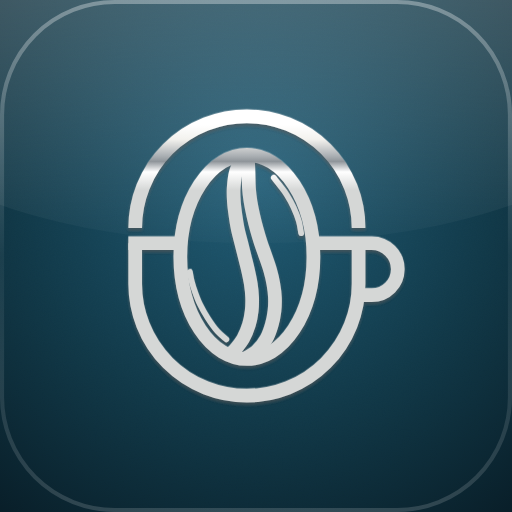
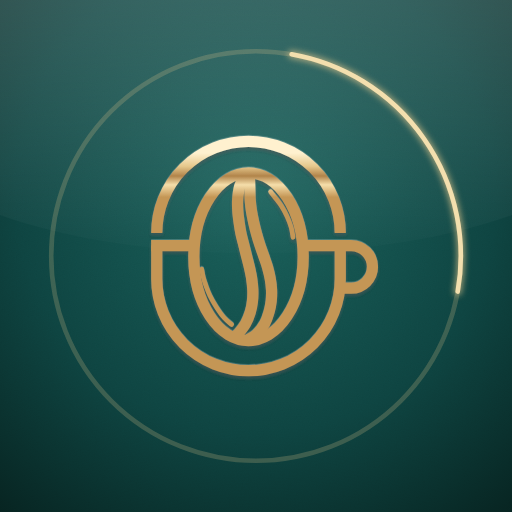
Add files via upload

diff --git a/index.html b/index.html
@@ -70,6 +70,21 @@ button:disabled{opacity:.55;cursor:default}
 <script src="https://www.gstatic.com/firebasejs/10.12.5/firebase-app-compat.js"></script>
 <script src="https://www.gstatic.com/firebasejs/10.12.5/firebase-database-compat.js"></script>
 <script src="https://www.gstatic.com/firebasejs/10.12.5/firebase-auth-compat.js"></script>
+<style id="splash-css">
+#splash{position:fixed;inset:0;z-index:9999;display:flex;flex-direction:column;align-items:center;justify-content:center;background:radial-gradient(120% 90% at 50% 40%,#1a5a55 0%,#0f4744 55%,#07231f 100%);transition:opacity .6s ease,visibility .6s ease}
+#splash.gone{opacity:0;visibility:hidden}
+#splash .sp-mark{position:relative;width:min(56vw,230px);aspect-ratio:1;display:grid;place-items:center;animation:spIn .9s cubic-bezier(.2,.8,.2,1) both}
+#splash .sp-icon{width:64%;height:auto;filter:drop-shadow(0 3px 3px rgba(0,0,0,.45));position:relative}
+#splash .sp-ring,#splash .sp-ring2{position:absolute;inset:0;border-radius:50%}
+#splash .sp-ring{border:2px solid rgba(230,200,140,.16)}
+#splash .sp-ring2{border:2px solid transparent;border-right-color:#e6c88c;border-top-color:rgba(230,200,140,.35);animation:spSpin 1.1s linear infinite;filter:drop-shadow(0 0 4px rgba(230,200,140,.45))}
+#splash .sp-name{width:min(52vw,220px);height:auto;margin-top:38px;animation:spUp .9s .25s cubic-bezier(.2,.8,.2,1) both}
+#splash .sp-sub{width:min(40vw,170px);height:auto;margin-top:12px;animation:spUp .9s .4s cubic-bezier(.2,.8,.2,1) both}
+@keyframes spIn{from{opacity:0;transform:scale(.9);filter:blur(4px)}to{opacity:1;transform:none;filter:none}}
+@keyframes spUp{from{opacity:0;transform:translateY(10px)}to{opacity:1;transform:none}}
+@keyframes spSpin{to{transform:rotate(360deg)}}
+@media (prefers-reduced-motion:reduce){#splash *{animation:none!important}}
+</style>
 <style id="app-css">
 .bnav,.more-sheet,.install-tip{display:none}
 @media(max-width:760px){
@@ -118,6 +133,23 @@ button:disabled{opacity:.55;cursor:default}
 @media (display-mode:standalone){.install-app{display:none!important}}
 </style><style>.size-grid{display:grid;grid-template-columns:repeat(3,1fr);gap:10px}.size-grid input{width:100%;margin-top:6px}@media(max-width:700px){.size-grid{grid-template-columns:1fr}}</style><style>textarea{width:100%;min-height:70px;resize:vertical}#prating,#previewcount{width:48%;display:inline-block;margin-right:1%}</style></head>
 <body>
+<div id="splash" role="status" aria-label="Loading"><div class="sp-mark"><div class="sp-ring"></div><div class="sp-ring2"></div><svg class="sp-icon" viewBox="-37 30 1290 1320" xmlns="http://www.w3.org/2000/svg"><defs><linearGradient id="spg" gradientUnits="userSpaceOnUse" x1="0" y1="60" x2="0" y2="1320"><stop offset="0" stop-color="#fff1cf"/><stop offset=".3" stop-color="#e6c88c"/><stop offset=".52" stop-color="#b1844a"/><stop offset=".72" stop-color="#f5deaa"/><stop offset="1" stop-color="#c49655"/></linearGradient></defs><path fill="none" stroke="url(#spg)" stroke-width="54" stroke-linejoin="round" d="M78,565 A490,490 0 0 1 1058,565"/>
+<path fill="none" stroke="url(#spg)" stroke-width="54" stroke-linejoin="round" d="M78,632 V811 A490,490 0 0 0 1058,811 V632"/>
+<path fill="none" stroke="url(#spg)" stroke-width="54" stroke-linejoin="round" d="M51.0,632 H278.6"/>
+<path fill="none" stroke="url(#spg)" stroke-width="54" stroke-linejoin="round" d="M857.3,632 H1116 A114,114 0 0 1 1116,860 H1058"/>
+<ellipse fill="none" stroke="url(#spg)" stroke-width="54" stroke-linejoin="round" cx="568" cy="692" rx="292" ry="448"/>
+<path fill="none" stroke="url(#spg)" stroke-width="54" stroke-linejoin="round" style="stroke-linecap:round" d="M546.0,262.0 C541.7,271.7 526.0,298.7 520.0,320.0 C514.0,341.3 511.5,368.3 510.0,390.0 C508.5,411.7 509.7,430.0 511.0,450.0 C512.3,470.0 515.2,490.0 518.0,510.0 C520.8,530.0 523.8,550.0 528.0,570.0 C532.2,590.0 538.0,610.0 543.0,630.0 C548.0,650.0 553.0,670.0 558.0,690.0 C563.0,710.0 568.5,730.0 573.0,750.0 C577.5,770.0 582.0,790.0 585.0,810.0 C588.0,830.0 590.3,850.0 591.0,870.0 C591.7,890.0 591.3,910.0 589.0,930.0 C586.7,950.0 583.2,970.0 577.0,990.0 C570.8,1010.0 562.3,1031.7 552.0,1050.0 C541.7,1068.3 525.0,1088.3 515.0,1100.0 C505.0,1111.7 495.8,1116.7 492.0,1120.0"/>
+<path fill="none" stroke="url(#spg)" stroke-width="54" stroke-linejoin="round" style="stroke-linecap:round" d="M572.0,252.0 C572.5,263.3 574.2,297.0 575.0,320.0 C575.8,343.0 575.5,368.3 577.0,390.0 C578.5,411.7 580.8,430.0 584.0,450.0 C587.2,470.0 591.5,490.0 596.0,510.0 C600.5,530.0 605.5,550.0 611.0,570.0 C616.5,590.0 622.5,610.0 629.0,630.0 C635.5,650.0 643.2,670.0 650.0,690.0 C656.8,710.0 664.3,730.0 670.0,750.0 C675.7,770.0 680.5,790.0 684.0,810.0 C687.5,830.0 690.2,850.0 691.0,870.0 C691.8,890.0 691.3,910.0 689.0,930.0 C686.7,950.0 682.8,970.0 677.0,990.0 C671.2,1010.0 664.8,1030.8 654.0,1050.0 C643.2,1069.2 626.7,1090.8 612.0,1105.0 C597.3,1119.2 573.7,1130.0 566.0,1135.0"/>
+<path fill="none" stroke="url(#spg)" stroke-width="22.7" stroke-linecap="round" d="M318.0,758.0 C319.3,765.0 322.3,785.5 326.0,800.0 C329.7,814.5 334.0,828.3 340.0,845.0 C346.0,861.7 352.7,880.8 362.0,900.0 C371.3,919.2 383.3,940.3 396.0,960.0 C408.7,979.7 424.3,1002.3 438.0,1018.0 C451.7,1033.7 471.3,1048.0 478.0,1054.0"/>
+<path fill="none" stroke="url(#spg)" stroke-width="22.7" stroke-linecap="round" d="M686.0,345.0 C690.3,350.5 702.5,365.5 712.0,378.0 C721.5,390.5 732.8,403.8 743.0,420.0 C753.2,436.2 764.2,455.8 773.0,475.0 C781.8,494.2 790.5,516.2 796.0,535.0 C801.5,553.8 804.3,579.2 806.0,588.0"/></svg></div><svg class="sp-name" viewBox="-2 -65.6 757.5 69.6" xmlns="http://www.w3.org/2000/svg"><path fill="#f1e3c3" d="M17.9 -24.5 19.2 -27.0H47.2L47.9 -24.5ZM71.1 -1.2Q71.5 -1.2 71.5 -0.6Q71.5 0.0 71.1 0.0Q68.1 0.0 64.9 -0.2Q61.8 -0.4 58.9 -0.4Q55.6 -0.4 53.1 -0.2Q50.7 0.0 47.7 0.0Q47.3 0.0 47.3 -0.6Q47.3 -1.2 47.7 -1.2Q52.2 -1.2 53.1 -2.8Q54.0 -4.4 51.6 -9.1L30.7 -51.6L34.8 -58.3L15.0 -13.7Q12.4 -7.6 14.8 -4.4Q17.3 -1.2 23.2 -1.2Q23.7 -1.2 23.7 -0.6Q23.7 0.0 23.2 0.0Q20.2 0.0 17.7 -0.2Q15.2 -0.4 11.4 -0.4Q7.6 -0.4 5.3 -0.2Q3.1 0.0 -0.2 0.0Q-0.6 0.0 -0.6 -0.6Q-0.6 -1.2 -0.2 -1.2Q2.5 -1.2 4.4 -2.3Q6.4 -3.4 8.3 -6.3Q10.2 -9.3 12.5 -14.6L34.0 -63.1Q34.2 -63.4 34.9 -63.4Q35.6 -63.4 35.7 -63.1L60.2 -13.7Q62.5 -8.9 64.3 -6.1Q66.1 -3.4 67.7 -2.3Q69.3 -1.2 71.1 -1.2ZM116.9 -12.1 117.9 -60.2 120.6 -60.0 119.5 -12.1Q119.4 -6.8 121.5 -4.0Q123.7 -1.2 128.0 -1.2Q128.3 -1.2 128.3 -0.6Q128.3 0.0 128.0 0.0Q125.8 0.0 123.5 -0.1Q121.2 -0.2 118.3 -0.2Q115.3 -0.2 112.8 -0.1Q110.4 0.0 108.2 0.0Q107.9 0.0 107.9 -0.6Q107.9 -1.2 108.2 -1.2Q112.3 -1.2 114.5 -4.0Q116.8 -6.8 116.9 -12.1ZM187.7 -1.2Q187.9 -1.2 187.9 -0.6Q187.9 0.0 187.7 0.0Q185.1 0.0 181.9 -0.1Q178.7 -0.2 175.2 -0.2Q171.7 -0.2 168.6 -0.1Q165.6 0.0 163.1 0.0Q162.9 0.0 162.9 -0.6Q162.9 -1.2 163.1 -1.2Q167.9 -1.2 169.3 -2.5Q170.7 -3.8 170.4 -8.1L168.3 -53.8L172.7 -60.7L147.1 -0.7Q147.0 -0.3 146.3 -0.3Q145.6 -0.3 145.4 -0.7L118.3 -54.2Q114.7 -61.3 108.9 -61.3Q108.6 -61.3 108.6 -61.9Q108.6 -62.5 108.9 -62.5Q110.8 -62.5 112.9 -62.4Q115.1 -62.3 116.6 -62.3Q118.8 -62.3 120.5 -62.4Q122.3 -62.5 123.3 -62.5Q124.7 -62.5 125.4 -61.5Q126.2 -60.6 127.9 -57.3L150.4 -13.2L146.1 -5.6L169.8 -60.0Q170.4 -61.3 171.1 -61.9Q171.8 -62.5 172.8 -62.5Q173.7 -62.5 174.7 -62.4Q175.8 -62.3 177.3 -62.3Q180.3 -62.3 182.4 -62.4Q184.5 -62.5 186.5 -62.5Q186.8 -62.5 186.8 -61.9Q186.8 -61.3 186.5 -61.3Q181.9 -61.3 179.7 -59.6Q177.5 -57.9 177.7 -53.8L179.9 -8.1Q180.1 -5.2 180.6 -3.7Q181.2 -2.2 182.8 -1.7Q184.5 -1.2 187.7 -1.2ZM254.5 -33.7 255.6 -35.3Q262.1 -35.3 266.9 -33.1Q271.8 -30.9 274.5 -27.0Q277.2 -23.2 277.2 -18.2Q277.2 -13.0 274.3 -8.7Q271.5 -4.5 266.5 -2.0Q261.5 0.4 255.2 0.4Q252.3 0.4 248.2 0.1Q244.1 -0.2 240.7 -0.2Q237.2 -0.2 234.0 -0.1Q230.8 0.0 228.3 0.0Q228.0 0.0 228.0 -0.6Q228.0 -1.2 228.3 -1.2Q231.4 -1.2 233.0 -1.7Q234.7 -2.2 235.3 -3.7Q236.0 -5.2 236.0 -8.1V-54.4Q236.0 -57.3 235.4 -58.7Q234.8 -60.2 233.1 -60.7Q231.5 -61.3 228.4 -61.3Q228.2 -61.3 228.2 -61.9Q228.2 -62.5 228.4 -62.5Q230.9 -62.5 234.0 -62.3Q237.2 -62.2 240.7 -62.2Q243.5 -62.2 246.7 -62.5Q249.9 -62.8 252.8 -62.8Q258.8 -62.8 262.8 -61.2Q266.9 -59.7 269.0 -56.8Q271.1 -53.9 271.1 -49.8Q271.1 -44.2 266.8 -39.8Q262.5 -35.5 254.5 -33.7ZM251.1 -60.8Q249.1 -60.8 247.8 -60.3Q246.6 -59.8 246.1 -58.4Q245.6 -57.0 245.6 -54.2V-34.6L242.0 -35.3Q245.3 -35.2 247.4 -35.1Q249.5 -35.1 249.7 -35.1Q255.9 -35.1 258.8 -39.1Q261.7 -43.1 261.7 -48.9Q261.7 -52.6 260.5 -55.3Q259.4 -58.0 257.0 -59.4Q254.7 -60.8 251.1 -60.8ZM253.6 -1.9Q260.7 -1.9 263.9 -5.5Q267.1 -9.2 267.1 -15.8Q267.1 -23.2 263.2 -27.9Q259.4 -32.6 251.6 -32.6Q250.1 -32.6 247.6 -32.5Q245.1 -32.5 242.4 -32.0L245.6 -33.2V-8.1Q245.6 -6.0 246.1 -4.6Q246.6 -3.2 248.3 -2.5Q250.1 -1.9 253.6 -1.9ZM370.1 0.0Q368.6 0.0 365.1 -3.8Q361.6 -7.6 356.6 -14.7Q351.7 -21.9 345.6 -31.8L353.6 -34.2Q361.7 -22.1 367.4 -14.8Q373.2 -7.6 377.6 -4.4Q382.1 -1.2 386.2 -1.2Q386.4 -1.2 386.4 -0.6Q386.4 0.0 386.2 0.0Q379.9 0.0 375.9 0.0Q372.0 0.0 370.1 0.0ZM347.4 -62.8Q356.1 -62.8 360.8 -59.3Q365.6 -55.9 365.6 -49.9Q365.6 -44.2 362.3 -39.7Q359.1 -35.2 353.9 -32.7Q348.8 -30.2 342.9 -30.2Q341.7 -30.2 340.3 -30.2Q338.9 -30.3 337.8 -30.4V-8.1Q337.8 -5.2 338.3 -3.7Q338.8 -2.2 340.4 -1.7Q342.1 -1.2 345.3 -1.2Q345.6 -1.2 345.6 -0.6Q345.6 0.0 345.3 0.0Q342.8 0.0 339.7 -0.1Q336.6 -0.2 332.9 -0.2Q329.4 -0.2 326.2 -0.1Q323.0 0.0 320.5 0.0Q320.2 0.0 320.2 -0.6Q320.2 -1.2 320.5 -1.2Q323.8 -1.2 325.4 -1.7Q327.0 -2.2 327.6 -3.7Q328.2 -5.2 328.2 -8.1V-54.4Q328.2 -57.3 327.6 -58.7Q327.1 -60.2 325.5 -60.7Q323.9 -61.3 320.6 -61.3Q320.4 -61.3 320.4 -61.9Q320.4 -62.5 320.6 -62.5Q323.1 -62.5 326.2 -62.3Q329.4 -62.2 332.9 -62.2Q336.1 -62.2 340.1 -62.5Q344.1 -62.8 347.4 -62.8ZM355.7 -46.4Q355.7 -52.2 354.3 -55.3Q353.0 -58.5 350.6 -59.7Q348.2 -60.9 345.0 -60.9Q341.1 -60.9 339.4 -59.4Q337.8 -58.0 337.8 -54.2V-33.1Q339.2 -32.9 340.8 -32.8Q342.4 -32.7 343.6 -32.7Q350.3 -32.7 353.0 -36.0Q355.7 -39.4 355.7 -46.4ZM455.8 1.2Q448.6 1.2 442.7 -1.3Q436.9 -3.9 432.7 -8.4Q428.6 -12.9 426.3 -18.7Q424.1 -24.6 424.1 -31.2Q424.1 -39.3 427.2 -45.4Q430.4 -51.5 435.6 -55.5Q440.8 -59.6 447.0 -61.6Q453.2 -63.6 459.3 -63.6Q466.7 -63.6 472.5 -60.9Q478.4 -58.3 482.5 -53.8Q486.6 -49.3 488.7 -43.6Q490.9 -37.9 490.9 -31.9Q490.9 -24.9 488.1 -18.9Q485.3 -12.9 480.4 -8.4Q475.6 -3.9 469.2 -1.3Q462.9 1.2 455.8 1.2ZM459.2 -1.2Q465.2 -1.2 469.9 -4.4Q474.7 -7.6 477.4 -13.8Q480.2 -20.1 480.2 -29.0Q480.2 -38.3 477.2 -45.5Q474.2 -52.7 468.6 -56.8Q463.0 -61.0 455.2 -61.0Q445.5 -61.0 440.1 -54.0Q434.8 -47.1 434.8 -34.8Q434.8 -27.6 436.6 -21.4Q438.4 -15.3 441.6 -10.7Q444.9 -6.1 449.3 -3.6Q453.8 -1.2 459.2 -1.2ZM546.2 -51.8Q546.2 -47.9 548.2 -45.0Q550.2 -42.2 553.3 -39.9Q556.5 -37.6 560.0 -35.4Q563.8 -33.1 567.2 -30.5Q570.7 -27.9 572.9 -24.5Q575.2 -21.2 575.2 -16.4Q575.2 -11.2 572.5 -7.2Q569.8 -3.3 565.0 -1.0Q560.3 1.2 553.9 1.2Q551.2 1.2 548.2 0.7Q545.3 0.2 542.7 -0.7Q540.2 -1.6 538.6 -2.6Q538.2 -2.9 537.9 -3.3Q537.7 -3.7 537.6 -4.5L537.0 -19.6Q536.9 -20.1 537.4 -20.1Q538.0 -20.2 538.1 -19.8Q539.3 -16.8 540.9 -13.4Q542.6 -10.1 544.8 -7.3Q547.0 -4.5 549.8 -2.7Q552.7 -1.0 556.4 -1.0Q559.0 -1.0 561.3 -1.9Q563.6 -2.8 565.1 -5.0Q566.6 -7.3 566.6 -11.2Q566.6 -15.9 564.4 -19.2Q562.3 -22.6 559.0 -25.1Q555.7 -27.6 552.1 -29.8Q548.6 -32.1 545.4 -34.5Q542.2 -36.9 540.1 -40.0Q538.1 -43.2 538.1 -47.7Q538.1 -53.2 541.1 -56.7Q544.1 -60.2 548.7 -61.9Q553.4 -63.6 558.3 -63.6Q561.6 -63.6 565.0 -63.0Q568.4 -62.4 570.8 -61.3Q571.7 -61.0 572.0 -60.5Q572.3 -60.0 572.3 -59.4L572.5 -45.9Q572.5 -45.5 572.0 -45.4Q571.6 -45.3 571.4 -45.6Q570.9 -47.1 569.9 -49.7Q568.9 -52.4 567.1 -55.1Q565.3 -57.8 562.6 -59.7Q559.9 -61.6 556.0 -61.6Q553.0 -61.6 550.8 -60.4Q548.6 -59.2 547.4 -57.0Q546.2 -54.9 546.2 -51.8ZM636.2 -8.1Q636.2 -5.2 636.7 -3.7Q637.3 -2.2 638.9 -1.7Q640.5 -1.2 643.8 -1.2Q644.1 -1.2 644.1 -0.6Q644.1 0.0 643.8 0.0Q641.3 0.0 638.2 -0.1Q635.1 -0.2 631.3 -0.2Q627.8 -0.2 624.6 -0.1Q621.4 0.0 618.9 0.0Q618.6 0.0 618.6 -0.6Q618.6 -1.2 618.9 -1.2Q622.1 -1.2 623.8 -1.7Q625.5 -2.2 626.0 -3.7Q626.6 -5.2 626.6 -8.1V-54.4Q626.6 -57.3 626.0 -58.7Q625.5 -60.2 623.8 -60.7Q622.1 -61.3 618.9 -61.3Q618.6 -61.3 618.6 -61.9Q618.6 -62.5 618.9 -62.5Q621.4 -62.5 624.6 -62.3Q627.8 -62.2 631.3 -62.2Q635.1 -62.2 638.2 -62.3Q641.4 -62.5 643.8 -62.5Q644.1 -62.5 644.1 -61.9Q644.1 -61.3 643.8 -61.3Q640.6 -61.3 638.9 -60.7Q637.3 -60.1 636.7 -58.6Q636.2 -57.1 636.2 -54.2ZM700.3 -24.5 701.6 -27.0H729.6L730.3 -24.5ZM753.5 -1.2Q753.9 -1.2 753.9 -0.6Q753.9 0.0 753.5 0.0Q750.5 0.0 747.3 -0.2Q744.2 -0.4 741.3 -0.4Q738.0 -0.4 735.5 -0.2Q733.1 0.0 730.1 0.0Q729.7 0.0 729.7 -0.6Q729.7 -1.2 730.1 -1.2Q734.6 -1.2 735.5 -2.8Q736.4 -4.4 734.0 -9.1L713.1 -51.6L717.2 -58.3L697.4 -13.7Q694.8 -7.6 697.2 -4.4Q699.7 -1.2 705.6 -1.2Q706.1 -1.2 706.1 -0.6Q706.1 0.0 705.6 0.0Q702.6 0.0 700.1 -0.2Q697.6 -0.4 693.8 -0.4Q690.0 -0.4 687.7 -0.2Q685.5 0.0 682.2 0.0Q681.8 0.0 681.8 -0.6Q681.8 -1.2 682.2 -1.2Q684.9 -1.2 686.8 -2.3Q688.8 -3.4 690.7 -6.3Q692.6 -9.3 694.9 -14.6L716.4 -63.1Q716.6 -63.4 717.3 -63.4Q718.0 -63.4 718.1 -63.1L742.6 -13.7Q744.9 -8.9 746.7 -6.1Q748.5 -3.4 750.1 -2.3Q751.7 -1.2 753.5 -1.2Z"/></svg><svg class="sp-sub" viewBox="-2 -30.3 721.5 34.3" xmlns="http://www.w3.org/2000/svg"><path fill="#b9c7bf" d="M12.3 0.3Q9.1 0.3 6.2 -0.6Q3.3 -1.6 1.6 -3.2L3.1 -6.3Q4.7 -4.9 7.1 -4.0Q9.6 -3.0 12.3 -3.0Q14.8 -3.0 16.3 -3.6Q17.8 -4.2 18.5 -5.1Q19.2 -6.1 19.2 -7.4Q19.2 -8.8 18.3 -9.7Q17.4 -10.6 15.9 -11.1Q14.4 -11.6 12.6 -12.0Q10.8 -12.4 8.9 -13.0Q7.1 -13.5 5.6 -14.4Q4.1 -15.2 3.2 -16.6Q2.3 -18.0 2.3 -20.3Q2.3 -22.4 3.4 -24.3Q4.6 -26.1 6.9 -27.2Q9.3 -28.3 13.0 -28.3Q15.4 -28.3 17.8 -27.6Q20.2 -27.0 22.0 -25.8L20.7 -22.6Q18.9 -23.8 16.9 -24.3Q14.9 -24.9 13.0 -24.9Q10.6 -24.9 9.1 -24.3Q7.6 -23.7 6.9 -22.7Q6.2 -21.7 6.2 -20.4Q6.2 -19.0 7.1 -18.1Q8.1 -17.2 9.6 -16.7Q11.1 -16.2 12.9 -15.7Q14.7 -15.3 16.5 -14.8Q18.3 -14.3 19.8 -13.4Q21.3 -12.6 22.2 -11.2Q23.2 -9.8 23.2 -7.6Q23.2 -5.5 22.0 -3.7Q20.8 -1.8 18.4 -0.7Q16.0 0.3 12.3 0.3ZM48.0 0.0V-28.0H58.9Q62.6 -28.0 65.2 -26.8Q67.8 -25.6 69.2 -23.4Q70.6 -21.2 70.6 -18.2Q70.6 -15.2 69.2 -13.0Q67.8 -10.8 65.2 -9.6Q62.6 -8.4 58.9 -8.4H50.2L52.0 -10.3V0.0ZM52.0 -9.9 50.2 -11.9H58.8Q62.6 -11.9 64.6 -13.6Q66.6 -15.2 66.6 -18.2Q66.6 -21.2 64.6 -22.8Q62.6 -24.5 58.8 -24.5H50.2L52.0 -26.5ZM95.9 0.0V-28.0H115.6V-24.5H99.9V-3.4H116.2V0.0ZM99.5 -12.5V-15.9H113.9V-12.5ZM154.2 0.3Q151.0 0.3 148.3 -0.7Q145.6 -1.8 143.6 -3.7Q141.6 -5.6 140.5 -8.2Q139.4 -10.8 139.4 -14.0Q139.4 -17.1 140.5 -19.7Q141.6 -22.3 143.6 -24.2Q145.6 -26.2 148.3 -27.2Q151.0 -28.3 154.2 -28.3Q157.5 -28.3 160.2 -27.2Q162.9 -26.1 164.9 -23.9L162.3 -21.4Q160.7 -23.1 158.7 -23.9Q156.7 -24.7 154.4 -24.7Q152.0 -24.7 150.0 -23.9Q148.0 -23.1 146.5 -21.7Q145.0 -20.2 144.2 -18.3Q143.4 -16.3 143.4 -14.0Q143.4 -11.6 144.2 -9.7Q145.0 -7.7 146.5 -6.2Q148.0 -4.8 150.0 -4.0Q152.0 -3.2 154.4 -3.2Q156.7 -3.2 158.7 -4.0Q160.7 -4.8 162.3 -6.6L164.9 -4.0Q162.9 -1.9 160.2 -0.7Q157.5 0.3 154.2 0.3ZM189.2 0.0V-28.0H193.2V0.0ZM216.3 0.0 229.0 -28.0H233.0L245.7 0.0H241.5L230.2 -25.7H231.8L220.5 0.0ZM221.7 -7.0 222.8 -10.2H238.6L239.7 -7.0ZM268.9 0.0V-28.0H272.9V-3.4H288.0V0.0ZM311.6 0.0V-28.0H315.6V0.0ZM348.6 0.0V-24.5H339.0V-28.0H362.1V-24.5H352.5V0.0ZM392.3 0.0V-10.7L393.2 -8.2L381.1 -28.0H385.4L395.5 -11.3H393.2L403.4 -28.0H407.4L395.4 -8.2L396.2 -10.7V0.0ZM472.7 0.3Q469.5 0.3 466.8 -0.7Q464.1 -1.8 462.1 -3.7Q460.1 -5.6 459.0 -8.2Q457.9 -10.8 457.9 -14.0Q457.9 -17.1 459.0 -19.7Q460.1 -22.3 462.1 -24.2Q464.1 -26.2 466.8 -27.2Q469.5 -28.3 472.7 -28.3Q475.9 -28.3 478.7 -27.2Q481.4 -26.1 483.3 -23.9L480.7 -21.4Q479.1 -23.1 477.1 -23.9Q475.1 -24.7 472.9 -24.7Q470.5 -24.7 468.5 -23.9Q466.5 -23.1 465.0 -21.7Q463.5 -20.2 462.7 -18.3Q461.9 -16.3 461.9 -14.0Q461.9 -11.6 462.7 -9.7Q463.5 -7.7 465.0 -6.2Q466.5 -4.8 468.5 -4.0Q470.5 -3.2 472.9 -3.2Q475.1 -3.2 477.1 -4.0Q479.1 -4.8 480.7 -6.6L483.3 -4.0Q481.4 -1.9 478.7 -0.7Q475.9 0.3 472.7 0.3ZM520.3 0.3Q517.1 0.3 514.4 -0.7Q511.6 -1.8 509.6 -3.7Q507.6 -5.7 506.5 -8.3Q505.4 -10.9 505.4 -14.0Q505.4 -17.0 506.5 -19.6Q507.6 -22.2 509.6 -24.2Q511.6 -26.1 514.3 -27.2Q517.1 -28.3 520.3 -28.3Q523.5 -28.3 526.2 -27.2Q528.9 -26.2 530.9 -24.2Q532.9 -22.3 534.0 -19.7Q535.1 -17.1 535.1 -14.0Q535.1 -10.8 534.0 -8.2Q532.9 -5.6 530.9 -3.7Q528.9 -1.8 526.2 -0.7Q523.5 0.3 520.3 0.3ZM520.3 -3.2Q522.6 -3.2 524.6 -4.0Q526.6 -4.8 528.0 -6.3Q529.5 -7.7 530.3 -9.7Q531.1 -11.6 531.1 -14.0Q531.1 -16.3 530.3 -18.2Q529.5 -20.2 528.0 -21.7Q526.6 -23.1 524.6 -23.9Q522.6 -24.7 520.3 -24.7Q517.9 -24.7 516.0 -23.9Q514.0 -23.1 512.5 -21.7Q511.0 -20.2 510.2 -18.2Q509.4 -16.3 509.4 -14.0Q509.4 -11.6 510.2 -9.7Q511.0 -7.7 512.5 -6.3Q514.0 -4.8 516.0 -4.0Q517.9 -3.2 520.3 -3.2ZM560.3 0.0V-28.0H580.0V-24.5H564.3V0.0ZM563.9 -11.3V-14.7H578.3V-11.3ZM604.7 0.0V-28.0H624.4V-24.5H608.7V0.0ZM608.3 -11.3V-14.7H622.7V-11.3ZM649.1 0.0V-28.0H668.8V-24.5H653.1V-3.4H669.4V0.0ZM652.7 -12.5V-15.9H667.1V-12.5ZM694.9 0.0V-28.0H714.6V-24.5H698.9V-3.4H715.2V0.0ZM698.5 -12.5V-15.9H712.9V-12.5Z"/></svg></div>
+<path fill="none" stroke="url(#spm)" stroke-width="50" stroke-linejoin="round" d="M78,632 V811 A490,490 0 0 0 1058,811 V632"/>
+<path fill="none" stroke="url(#spm)" stroke-width="50" stroke-linejoin="round" d="M53.0,632 H278.6"/>
+<path fill="none" stroke="url(#spm)" stroke-width="50" stroke-linejoin="round" d="M857.3,632 H1116 A114,114 0 0 1 1116,860 H1058"/>
+<ellipse fill="none" stroke="url(#spm)" stroke-width="50" stroke-linejoin="round" cx="568" cy="692" rx="292" ry="448"/>
+<path fill="none" stroke="url(#spm)" stroke-width="50" stroke-linejoin="round" style="stroke-linecap:round" d="M546.0,262.0 C541.7,271.7 526.0,298.7 520.0,320.0 C514.0,341.3 511.5,368.3 510.0,390.0 C508.5,411.7 509.7,430.0 511.0,450.0 C512.3,470.0 515.2,490.0 518.0,510.0 C520.8,530.0 523.8,550.0 528.0,570.0 C532.2,590.0 538.0,610.0 543.0,630.0 C548.0,650.0 553.0,670.0 558.0,690.0 C563.0,710.0 568.5,730.0 573.0,750.0 C577.5,770.0 582.0,790.0 585.0,810.0 C588.0,830.0 590.3,850.0 591.0,870.0 C591.7,890.0 591.3,910.0 589.0,930.0 C586.7,950.0 583.2,970.0 577.0,990.0 C570.8,1010.0 562.3,1031.7 552.0,1050.0 C541.7,1068.3 525.0,1088.3 515.0,1100.0 C505.0,1111.7 495.8,1116.7 492.0,1120.0"/>
+<path fill="none" stroke="url(#spm)" stroke-width="50" stroke-linejoin="round" style="stroke-linecap:round" d="M572.0,252.0 C572.5,263.3 574.2,297.0 575.0,320.0 C575.8,343.0 575.5,368.3 577.0,390.0 C578.5,411.7 580.8,430.0 584.0,450.0 C587.2,470.0 591.5,490.0 596.0,510.0 C600.5,530.0 605.5,550.0 611.0,570.0 C616.5,590.0 622.5,610.0 629.0,630.0 C635.5,650.0 643.2,670.0 650.0,690.0 C656.8,710.0 664.3,730.0 670.0,750.0 C675.7,770.0 680.5,790.0 684.0,810.0 C687.5,830.0 690.2,850.0 691.0,870.0 C691.8,890.0 691.3,910.0 689.0,930.0 C686.7,950.0 682.8,970.0 677.0,990.0 C671.2,1010.0 664.8,1030.8 654.0,1050.0 C643.2,1069.2 626.7,1090.8 612.0,1105.0 C597.3,1119.2 573.7,1130.0 566.0,1135.0"/>
+<path fill="none" stroke="url(#spm)" stroke-width="21.0" stroke-linecap="round" d="M318.0,758.0 C319.3,765.0 322.3,785.5 326.0,800.0 C329.7,814.5 334.0,828.3 340.0,845.0 C346.0,861.7 352.7,880.8 362.0,900.0 C371.3,919.2 383.3,940.3 396.0,960.0 C408.7,979.7 424.3,1002.3 438.0,1018.0 C451.7,1033.7 471.3,1048.0 478.0,1054.0"/>
+<path fill="none" stroke="url(#spm)" stroke-width="21.0" stroke-linecap="round" d="M686.0,345.0 C690.3,350.5 702.5,365.5 712.0,378.0 C721.5,390.5 732.8,403.8 743.0,420.0 C753.2,436.2 764.2,455.8 773.0,475.0 C781.8,494.2 790.5,516.2 796.0,535.0 C801.5,553.8 804.3,579.2 806.0,588.0"/></g><path fill="url(#spm)" transform="translate(137.0,659.9)" d="M22.9 -31.3 24.5 -34.5H60.4L61.3 -31.3ZM91.0 -1.5Q91.5 -1.5 91.5 -0.7Q91.5 0.0 91.0 0.0Q87.1 0.0 83.1 -0.2Q79.1 -0.5 75.3 -0.5Q71.1 -0.5 68.0 -0.2Q64.8 0.0 61.0 0.0Q60.5 0.0 60.5 -0.7Q60.5 -1.5 61.0 -1.5Q66.8 -1.5 67.9 -3.5Q69.1 -5.6 66.0 -11.6L39.2 -66.0L44.5 -74.6L19.2 -17.5Q15.8 -9.7 19.0 -5.6Q22.1 -1.5 29.6 -1.5Q30.3 -1.5 30.3 -0.7Q30.3 0.0 29.6 0.0Q25.8 0.0 22.6 -0.2Q19.4 -0.5 14.5 -0.5Q9.7 -0.5 6.8 -0.2Q3.9 0.0 -0.2 0.0Q-0.7 0.0 -0.7 -0.7Q-0.7 -1.5 -0.2 -1.5Q3.2 -1.5 5.6 -2.9Q8.1 -4.3 10.6 -8.1Q13.0 -11.9 16.0 -18.6L43.5 -80.7Q43.7 -81.1 44.6 -81.1Q45.5 -81.1 45.6 -80.7L77.0 -17.5Q80.0 -11.3 82.3 -7.8Q84.6 -4.3 86.6 -2.9Q88.7 -1.5 91.0 -1.5ZM118.9 -15.4 120.2 -77.0 123.7 -76.8 122.3 -15.4Q122.1 -8.7 124.9 -5.1Q127.6 -1.5 133.2 -1.5Q133.5 -1.5 133.5 -0.7Q133.5 0.0 133.2 0.0Q130.3 0.0 127.4 -0.1Q124.4 -0.2 120.7 -0.2Q116.9 -0.2 113.8 -0.1Q110.6 0.0 107.8 0.0Q107.4 0.0 107.4 -0.7Q107.4 -1.5 107.8 -1.5Q113.1 -1.5 115.9 -5.1Q118.8 -8.7 118.9 -15.4ZM209.6 -1.5Q209.8 -1.5 209.8 -0.7Q209.8 0.0 209.6 0.0Q206.2 0.0 202.1 -0.1Q198.0 -0.2 193.6 -0.2Q189.1 -0.2 185.2 -0.1Q181.3 0.0 178.1 0.0Q177.8 0.0 177.8 -0.7Q177.8 -1.5 178.1 -1.5Q184.2 -1.5 186.0 -3.2Q187.8 -4.8 187.4 -10.3L184.7 -68.8L190.4 -77.6L157.6 -0.8Q157.5 -0.3 156.6 -0.3Q155.7 -0.3 155.4 -0.8L120.7 -69.3Q116.1 -78.4 108.7 -78.4Q108.3 -78.4 108.3 -79.2Q108.3 -80.0 108.7 -80.0Q111.1 -80.0 113.9 -79.8Q116.6 -79.7 118.6 -79.7Q121.4 -79.7 123.6 -79.8Q125.9 -80.0 127.1 -80.0Q128.9 -80.0 129.9 -78.7Q130.8 -77.5 133.0 -73.3L161.8 -16.8L156.3 -7.1L186.7 -76.8Q187.4 -78.4 188.3 -79.2Q189.2 -80.0 190.5 -80.0Q191.6 -80.0 193.0 -79.8Q194.3 -79.7 196.3 -79.7Q200.1 -79.7 202.8 -79.8Q205.5 -80.0 208.0 -80.0Q208.4 -80.0 208.4 -79.2Q208.4 -78.4 208.0 -78.4Q202.1 -78.4 199.3 -76.2Q196.5 -74.1 196.8 -68.8L199.6 -10.3Q199.8 -6.6 200.5 -4.7Q201.2 -2.8 203.4 -2.1Q205.5 -1.5 209.6 -1.5ZM264.4 -43.1 265.8 -45.1Q274.2 -45.1 280.4 -42.3Q286.6 -39.5 290.0 -34.6Q293.5 -29.6 293.5 -23.2Q293.5 -16.6 289.8 -11.2Q286.2 -5.7 279.8 -2.6Q273.4 0.5 265.3 0.5Q261.6 0.5 256.4 0.1Q251.1 -0.2 246.8 -0.2Q242.3 -0.2 238.2 -0.1Q234.1 0.0 230.9 0.0Q230.5 0.0 230.5 -0.7Q230.5 -1.5 230.9 -1.5Q234.9 -1.5 237.0 -2.1Q239.1 -2.8 239.9 -4.7Q240.7 -6.6 240.7 -10.3V-69.6Q240.7 -73.3 240.0 -75.2Q239.2 -77.0 237.1 -77.7Q235.0 -78.4 231.0 -78.4Q230.8 -78.4 230.8 -79.2Q230.8 -80.0 231.0 -80.0Q234.2 -80.0 238.3 -79.8Q242.3 -79.6 246.8 -79.6Q250.3 -79.6 254.4 -80.0Q258.5 -80.3 262.3 -80.3Q269.9 -80.3 275.1 -78.4Q280.3 -76.4 283.0 -72.7Q285.7 -68.9 285.7 -63.7Q285.7 -56.5 280.2 -51.0Q274.7 -45.4 264.4 -43.1ZM260.1 -77.8Q257.5 -77.8 255.9 -77.1Q254.3 -76.5 253.7 -74.7Q253.0 -72.9 253.0 -69.3V-44.2L248.4 -45.1Q252.7 -45.0 255.3 -44.9Q258.0 -44.9 258.3 -44.9Q266.2 -44.9 269.9 -50.0Q273.6 -55.1 273.6 -62.5Q273.6 -67.3 272.2 -70.7Q270.7 -74.2 267.7 -76.0Q264.7 -77.8 260.1 -77.8ZM263.3 -2.4Q272.4 -2.4 276.5 -7.1Q280.6 -11.7 280.6 -20.2Q280.6 -29.6 275.6 -35.7Q270.7 -41.7 260.7 -41.7Q258.8 -41.7 255.6 -41.6Q252.4 -41.6 248.9 -40.9L253.0 -42.4V-10.3Q253.0 -7.6 253.7 -5.8Q254.3 -4.0 256.6 -3.2Q258.8 -2.4 263.3 -2.4ZM381.8 0.0Q379.8 0.0 375.4 -4.8Q370.9 -9.7 364.5 -18.8Q358.2 -28.0 350.4 -40.7L360.6 -43.7Q371.0 -28.2 378.4 -19.0Q385.7 -9.7 391.4 -5.6Q397.1 -1.5 402.4 -1.5Q402.6 -1.5 402.6 -0.7Q402.6 0.0 402.4 0.0Q394.3 0.0 389.2 0.0Q384.2 0.0 381.8 0.0ZM352.7 -80.3Q363.8 -80.3 369.9 -75.9Q376.0 -71.5 376.0 -63.8Q376.0 -56.5 371.8 -50.8Q367.7 -45.0 361.1 -41.8Q354.5 -38.6 346.9 -38.6Q345.4 -38.6 343.6 -38.7Q341.8 -38.7 340.4 -38.9V-10.3Q340.4 -6.6 341.1 -4.7Q341.7 -2.8 343.8 -2.1Q345.9 -1.5 350.0 -1.5Q350.4 -1.5 350.4 -0.7Q350.4 0.0 350.0 0.0Q346.8 0.0 342.8 -0.1Q338.9 -0.2 334.1 -0.2Q329.7 -0.2 325.6 -0.1Q321.5 0.0 318.3 0.0Q317.9 0.0 317.9 -0.7Q317.9 -1.5 318.3 -1.5Q322.5 -1.5 324.5 -2.1Q326.6 -2.8 327.4 -4.7Q328.1 -6.6 328.1 -10.3V-69.6Q328.1 -73.3 327.4 -75.2Q326.7 -77.0 324.7 -77.7Q322.6 -78.4 318.4 -78.4Q318.1 -78.4 318.1 -79.2Q318.1 -80.0 318.4 -80.0Q321.6 -80.0 325.6 -79.8Q329.7 -79.6 334.1 -79.6Q338.2 -79.6 343.4 -80.0Q348.5 -80.3 352.7 -80.3ZM363.3 -59.3Q363.3 -66.8 361.6 -70.8Q359.9 -74.8 356.8 -76.4Q353.7 -77.9 349.6 -77.9Q344.6 -77.9 342.5 -76.0Q340.4 -74.2 340.4 -69.3V-42.3Q342.2 -42.1 344.3 -41.9Q346.3 -41.8 347.8 -41.8Q356.4 -41.8 359.9 -46.1Q363.3 -50.4 363.3 -59.3ZM460.8 1.5Q451.6 1.5 444.1 -1.7Q436.6 -4.9 431.3 -10.7Q426.0 -16.5 423.1 -24.0Q420.2 -31.4 420.2 -39.9Q420.2 -50.3 424.3 -58.1Q428.3 -65.9 435.0 -71.1Q441.6 -76.2 449.5 -78.8Q457.5 -81.4 465.3 -81.4Q474.8 -81.4 482.3 -78.0Q489.7 -74.6 495.0 -68.8Q500.2 -63.1 503.0 -55.8Q505.7 -48.5 505.7 -40.8Q505.7 -31.8 502.2 -24.1Q498.6 -16.5 492.4 -10.7Q486.2 -4.9 478.0 -1.7Q469.9 1.5 460.8 1.5ZM465.2 -1.5Q472.8 -1.5 478.9 -5.6Q485.0 -9.7 488.5 -17.7Q492.0 -25.7 492.0 -37.1Q492.0 -49.0 488.2 -58.2Q484.4 -67.4 477.2 -72.7Q470.0 -78.0 460.0 -78.0Q447.6 -78.0 440.8 -69.1Q433.9 -60.2 433.9 -44.5Q433.9 -35.3 436.2 -27.4Q438.5 -19.5 442.7 -13.6Q446.9 -7.8 452.6 -4.6Q458.3 -1.5 465.2 -1.5ZM545.9 -66.3Q545.9 -61.3 548.4 -57.6Q551.0 -54.0 555.0 -51.0Q559.1 -48.1 563.5 -45.3Q568.4 -42.3 572.8 -39.0Q577.2 -35.7 580.1 -31.4Q583.0 -27.1 583.0 -20.9Q583.0 -14.3 579.5 -9.2Q576.1 -4.2 570.0 -1.3Q563.9 1.5 555.7 1.5Q552.3 1.5 548.5 0.8Q544.7 0.2 541.5 -0.8Q538.2 -2.0 536.2 -3.3Q535.6 -3.7 535.3 -4.2Q535.0 -4.7 534.9 -5.7L534.1 -25.0Q534.0 -25.7 534.7 -25.7Q535.4 -25.8 535.5 -25.3Q537.1 -21.5 539.2 -17.2Q541.3 -12.9 544.1 -9.3Q546.9 -5.7 550.6 -3.5Q554.2 -1.2 558.9 -1.2Q562.3 -1.2 565.2 -2.4Q568.2 -3.5 570.1 -6.4Q572.0 -9.3 572.0 -14.3Q572.0 -20.3 569.2 -24.6Q566.5 -28.9 562.3 -32.1Q558.0 -35.3 553.4 -38.1Q549.0 -41.0 544.9 -44.1Q540.8 -47.2 538.1 -51.2Q535.5 -55.2 535.5 -61.0Q535.5 -68.0 539.4 -72.5Q543.2 -77.0 549.1 -79.2Q555.1 -81.4 561.4 -81.4Q565.6 -81.4 570.0 -80.6Q574.3 -79.8 577.4 -78.4Q578.5 -78.0 578.9 -77.4Q579.3 -76.8 579.3 -76.0L579.5 -58.7Q579.5 -58.2 579.0 -58.1Q578.4 -57.9 578.1 -58.3Q577.5 -60.2 576.2 -63.6Q574.9 -67.0 572.6 -70.5Q570.3 -73.9 566.9 -76.4Q563.4 -78.8 558.4 -78.8Q554.6 -78.8 551.8 -77.3Q549.0 -75.7 547.4 -73.0Q545.9 -70.2 545.9 -66.3ZM630.4 -10.3Q630.4 -6.6 631.1 -4.7Q631.9 -2.8 633.9 -2.1Q635.9 -1.5 640.2 -1.5Q640.6 -1.5 640.6 -0.7Q640.6 0.0 640.2 0.0Q637.0 0.0 633.0 -0.1Q629.0 -0.2 624.2 -0.2Q619.7 -0.2 615.6 -0.1Q611.5 0.0 608.3 0.0Q607.9 0.0 607.9 -0.7Q607.9 -1.5 608.3 -1.5Q612.4 -1.5 614.6 -2.1Q616.8 -2.8 617.5 -4.7Q618.2 -6.6 618.2 -10.3V-69.6Q618.2 -73.3 617.5 -75.2Q616.8 -77.0 614.6 -77.7Q612.4 -78.4 608.3 -78.4Q607.9 -78.4 607.9 -79.2Q607.9 -80.0 608.3 -80.0Q611.5 -80.0 615.6 -79.8Q619.7 -79.6 624.2 -79.6Q629.0 -79.6 633.1 -79.8Q637.1 -80.0 640.2 -80.0Q640.6 -80.0 640.6 -79.2Q640.6 -78.4 640.2 -78.4Q636.1 -78.4 634.0 -77.6Q631.9 -76.9 631.1 -75.0Q630.4 -73.0 630.4 -69.3ZM681.9 -31.3 683.5 -34.5H719.4L720.3 -31.3ZM750.0 -1.5Q750.5 -1.5 750.5 -0.7Q750.5 0.0 750.0 0.0Q746.1 0.0 742.1 -0.2Q738.0 -0.5 734.3 -0.5Q730.1 -0.5 727.0 -0.2Q723.8 0.0 720.0 0.0Q719.5 0.0 719.5 -0.7Q719.5 -1.5 720.0 -1.5Q725.8 -1.5 726.9 -3.5Q728.1 -5.6 725.0 -11.6L698.2 -66.0L703.5 -74.6L678.1 -17.5Q674.8 -9.7 678.0 -5.6Q681.1 -1.5 688.6 -1.5Q689.3 -1.5 689.3 -0.7Q689.3 0.0 688.6 0.0Q684.8 0.0 681.6 -0.2Q678.4 -0.5 673.5 -0.5Q668.7 -0.5 665.8 -0.2Q662.9 0.0 658.7 0.0Q658.2 0.0 658.2 -0.7Q658.2 -1.5 658.7 -1.5Q662.1 -1.5 664.6 -2.9Q667.1 -4.3 669.6 -8.1Q672.0 -11.9 674.9 -18.6L702.5 -80.7Q702.7 -81.1 703.6 -81.1Q704.5 -81.1 704.6 -80.7L736.0 -17.5Q738.9 -11.3 741.2 -7.8Q743.5 -4.3 745.6 -2.9Q747.6 -1.5 750.0 -1.5Z"/><path fill="#b9a98f" transform="translate(229.5,757.2)" d="M10.1 0.2Q7.5 0.2 5.1 -0.5Q2.7 -1.3 1.3 -2.6L2.5 -5.2Q3.8 -4.0 5.9 -3.3Q7.9 -2.5 10.1 -2.5Q12.2 -2.5 13.4 -3.0Q14.7 -3.4 15.3 -4.2Q15.9 -5.0 15.9 -6.1Q15.9 -7.2 15.1 -8.0Q14.3 -8.7 13.1 -9.1Q11.8 -9.6 10.3 -9.9Q8.9 -10.2 7.4 -10.7Q5.9 -11.1 4.6 -11.8Q3.4 -12.5 2.6 -13.7Q1.9 -14.9 1.9 -16.7Q1.9 -18.5 2.8 -20.0Q3.7 -21.5 5.7 -22.4Q7.7 -23.3 10.7 -23.3Q12.7 -23.3 14.7 -22.8Q16.7 -22.3 18.1 -21.3L17.0 -18.6Q15.6 -19.6 13.9 -20.1Q12.3 -20.5 10.7 -20.5Q8.8 -20.5 7.5 -20.0Q6.3 -19.5 5.7 -18.7Q5.1 -17.9 5.1 -16.8Q5.1 -15.6 5.9 -14.9Q6.6 -14.2 7.9 -13.7Q9.1 -13.3 10.6 -13.0Q12.1 -12.6 13.6 -12.2Q15.1 -11.8 16.3 -11.1Q17.6 -10.4 18.3 -9.2Q19.1 -8.1 19.1 -6.3Q19.1 -4.5 18.1 -3.0Q17.2 -1.5 15.2 -0.6Q13.2 0.2 10.1 0.2ZM37.9 0.0V-23.1H46.9Q49.9 -23.1 52.1 -22.1Q54.2 -21.1 55.4 -19.3Q56.5 -17.5 56.5 -15.0Q56.5 -12.5 55.4 -10.7Q54.2 -8.9 52.1 -7.9Q49.9 -6.9 46.9 -6.9H39.7L41.2 -8.5V0.0ZM41.2 -8.2 39.7 -9.8H46.8Q50.0 -9.8 51.6 -11.2Q53.2 -12.5 53.2 -15.0Q53.2 -17.5 51.6 -18.8Q50.0 -20.2 46.8 -20.2H39.7L41.2 -21.8ZM75.7 0.0V-23.1H92.0V-20.2H79.0V-2.8H92.5V0.0ZM78.7 -10.3V-13.1H90.6V-10.3ZM122.1 0.2Q119.5 0.2 117.3 -0.6Q115.0 -1.4 113.4 -3.0Q111.8 -4.6 110.9 -6.8Q109.9 -8.9 109.9 -11.5Q109.9 -14.1 110.9 -16.2Q111.8 -18.4 113.4 -20.0Q115.1 -21.6 117.3 -22.4Q119.5 -23.3 122.2 -23.3Q124.9 -23.3 127.1 -22.4Q129.4 -21.5 131.0 -19.7L128.8 -17.6Q127.5 -19.0 125.8 -19.7Q124.2 -20.4 122.3 -20.4Q120.4 -20.4 118.7 -19.7Q117.0 -19.1 115.8 -17.9Q114.6 -16.7 113.9 -15.0Q113.2 -13.4 113.2 -11.5Q113.2 -9.6 113.9 -8.0Q114.6 -6.3 115.8 -5.1Q117.0 -3.9 118.7 -3.3Q120.4 -2.6 122.3 -2.6Q124.2 -2.6 125.8 -3.3Q127.5 -4.0 128.8 -5.4L131.0 -3.3Q129.4 -1.5 127.1 -0.6Q124.9 0.2 122.1 0.2ZM149.3 0.0V-23.1H152.6V0.0ZM170.1 0.0 180.5 -23.1H183.8L194.3 0.0H190.8L181.5 -21.2H182.8L173.5 0.0ZM174.5 -5.7 175.4 -8.4H188.4L189.4 -5.7ZM211.7 0.0V-23.1H215.0V-2.8H227.5V0.0ZM245.3 0.0V-23.1H248.6V0.0ZM274.1 0.0V-20.2H266.2V-23.1H285.3V-20.2H277.4V0.0ZM308.5 0.0V-8.8L309.2 -6.7L299.3 -23.1H302.8L311.2 -9.3H309.2L317.6 -23.1H320.9L311.0 -6.7L311.7 -8.8V0.0ZM371.4 0.2Q368.8 0.2 366.5 -0.6Q364.3 -1.4 362.7 -3.0Q361.1 -4.6 360.1 -6.8Q359.2 -8.9 359.2 -11.5Q359.2 -14.1 360.1 -16.2Q361.1 -18.4 362.7 -20.0Q364.4 -21.6 366.6 -22.4Q368.8 -23.3 371.4 -23.3Q374.1 -23.3 376.4 -22.4Q378.6 -21.5 380.2 -19.7L378.1 -17.6Q376.8 -19.0 375.1 -19.7Q373.5 -20.4 371.6 -20.4Q369.6 -20.4 368.0 -19.7Q366.3 -19.1 365.1 -17.9Q363.9 -16.7 363.2 -15.0Q362.5 -13.4 362.5 -11.5Q362.5 -9.6 363.2 -8.0Q363.9 -6.3 365.1 -5.1Q366.3 -3.9 368.0 -3.3Q369.6 -2.6 371.6 -2.6Q373.5 -2.6 375.1 -3.3Q376.8 -4.0 378.1 -5.4L380.2 -3.3Q378.6 -1.5 376.4 -0.6Q374.1 0.2 371.4 0.2ZM409.0 0.2Q406.4 0.2 404.1 -0.6Q401.9 -1.5 400.2 -3.1Q398.6 -4.7 397.6 -6.8Q396.7 -9.0 396.7 -11.5Q396.7 -14.0 397.6 -16.2Q398.6 -18.3 400.2 -19.9Q401.9 -21.5 404.1 -22.4Q406.4 -23.3 409.0 -23.3Q411.7 -23.3 413.9 -22.4Q416.1 -21.6 417.8 -20.0Q419.5 -18.4 420.4 -16.2Q421.3 -14.1 421.3 -11.5Q421.3 -8.9 420.4 -6.8Q419.5 -4.6 417.8 -3.0Q416.1 -1.4 413.9 -0.6Q411.7 0.2 409.0 0.2ZM409.0 -2.6Q410.9 -2.6 412.6 -3.3Q414.2 -3.9 415.4 -5.1Q416.6 -6.4 417.3 -8.0Q418.0 -9.6 418.0 -11.5Q418.0 -13.4 417.3 -15.0Q416.6 -16.6 415.4 -17.9Q414.2 -19.1 412.6 -19.7Q410.9 -20.4 409.0 -20.4Q407.1 -20.4 405.5 -19.7Q403.8 -19.1 402.6 -17.9Q401.4 -16.6 400.7 -15.0Q400.0 -13.4 400.0 -11.5Q400.0 -9.6 400.7 -8.0Q401.4 -6.4 402.6 -5.1Q403.8 -3.9 405.5 -3.3Q407.1 -2.6 409.0 -2.6ZM440.3 0.0V-23.1H456.6V-20.2H443.6V0.0ZM443.3 -9.3V-12.1H455.2V-9.3ZM475.3 0.0V-23.1H491.6V-20.2H478.6V0.0ZM478.2 -9.3V-12.1H490.1V-9.3ZM510.2 0.0V-23.1H526.5V-20.2H513.5V-2.8H527.0V0.0ZM513.2 -10.3V-13.1H525.1V-10.3ZM546.3 0.0V-23.1H562.6V-20.2H549.6V-2.8H563.1V0.0ZM549.3 -10.3V-13.1H561.2V-10.3Z"/></svg></div><div class="sp-bar"><i></i></div></div>
 <div id="login" class="login">
   <div class="login-box">
     <h1>AMBROSIA</h1><p>Admin Control Panel</p>
@@ -1326,6 +1358,10 @@ async function resetContent(){if(confirm("Reset all store content back to the de
 
 // Sign-in check runs last, after every variable above has been created.
 // Firebase remembers the session, so a refresh keeps you signed in.
-firebase.auth().onAuthStateChanged(onAdminAuth);
+// Opening screen: stays at least ~1.2s so the animation is seen, then fades away
+let splashT0=Date.now(),splashDone=false;
+function hideSplash(){if(splashDone)return;splashDone=true;let el=document.getElementById("splash");if(!el)return;setTimeout(()=>{el.classList.add("gone");setTimeout(()=>el.remove(),700)},Math.max(0,1200-(Date.now()-splashT0)))}
+setTimeout(hideSplash,6000); // never block the page if something is slow
+firebase.auth().onAuthStateChanged(u=>Promise.resolve(onAdminAuth(u)).finally(hideSplash));
 </script>
 </body></html>

diff --git a/sw.js b/sw.js
@@ -1,7 +1,7 @@
 // Ambrosia Admin app — keeps the admin page on the phone so it opens instantly.
 // Only this site's own files are cached. Orders, products and payments always
 // come live from Firebase / the payment functions and are never stored here.
-const CACHE = "ambrosia-admin-v4";
+const CACHE = "ambrosia-admin-v6";
 const SHELL = ["/", "/index.html", "/manifest.webmanifest", "/icon-192.png", "/icon-512.png", "/apple-touch-icon-180.png"];
 
 self.addEventListener("install", e => {
